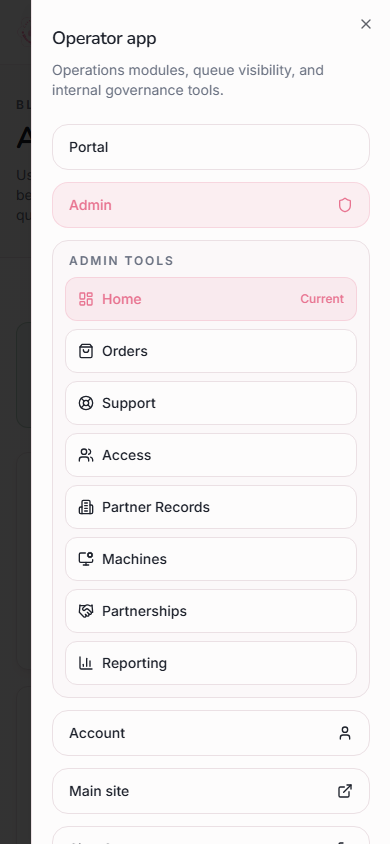
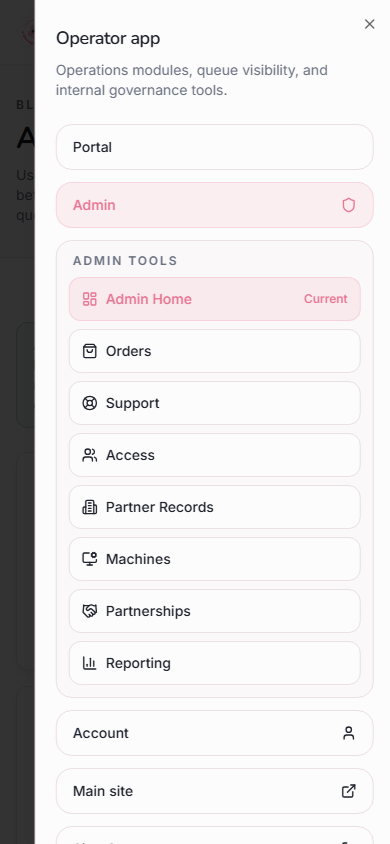
Tighten admin nav QA evidence

diff --git a/src/components/layout/AppLayout.tsx b/src/components/layout/AppLayout.tsx
@@ -55,8 +55,8 @@ type AdminDestination = {
 const adminDestinations: AdminDestination[] = [
   {
     href: '/admin',
-    label: 'Admin home',
-    shortLabel: 'Home',
+    label: 'Admin Home',
+    shortLabel: 'Admin Home',
     description: 'Operations modules, queue visibility, and internal governance tools.',
     icon: LayoutDashboard,
     requiresSuperAdmin: true,

diff --git a/Docs/QA_SMOKE_TEST_CHECKLIST.md b/Docs/QA_SMOKE_TEST_CHECKLIST.md
@@ -268,6 +268,7 @@ Run these checks on localhost for each PR that adds a user-facing feature.
 - [ ] Super-admin user can access `/admin/partnerships`
 - [ ] Admin dashboard and app nav expose separate Partner Records, Machines, Partnerships, and Reporting modules
 - [ ] Desktop admin routes show a persistent `Admin tools` navigation row for Admin Home, Orders, Support, Access, Partner Records, Machines, Partnerships, and Reporting
+- [ ] Mobile admin routes show the same super-admin destinations in the operator menu: Admin Home, Orders, Support, Access, Partner Records, Machines, Partnerships, and Reporting
 - [ ] Non-admin user cannot access `/admin/partner-records` or `/admin/machines`
 - [ ] Super-admin user can access `/admin/partner-records` and `/admin/machines`
 - [ ] Admin Partner Records can search, create, and edit reusable partner records with separate display name and legal name fields, without exposing "party" terminology
